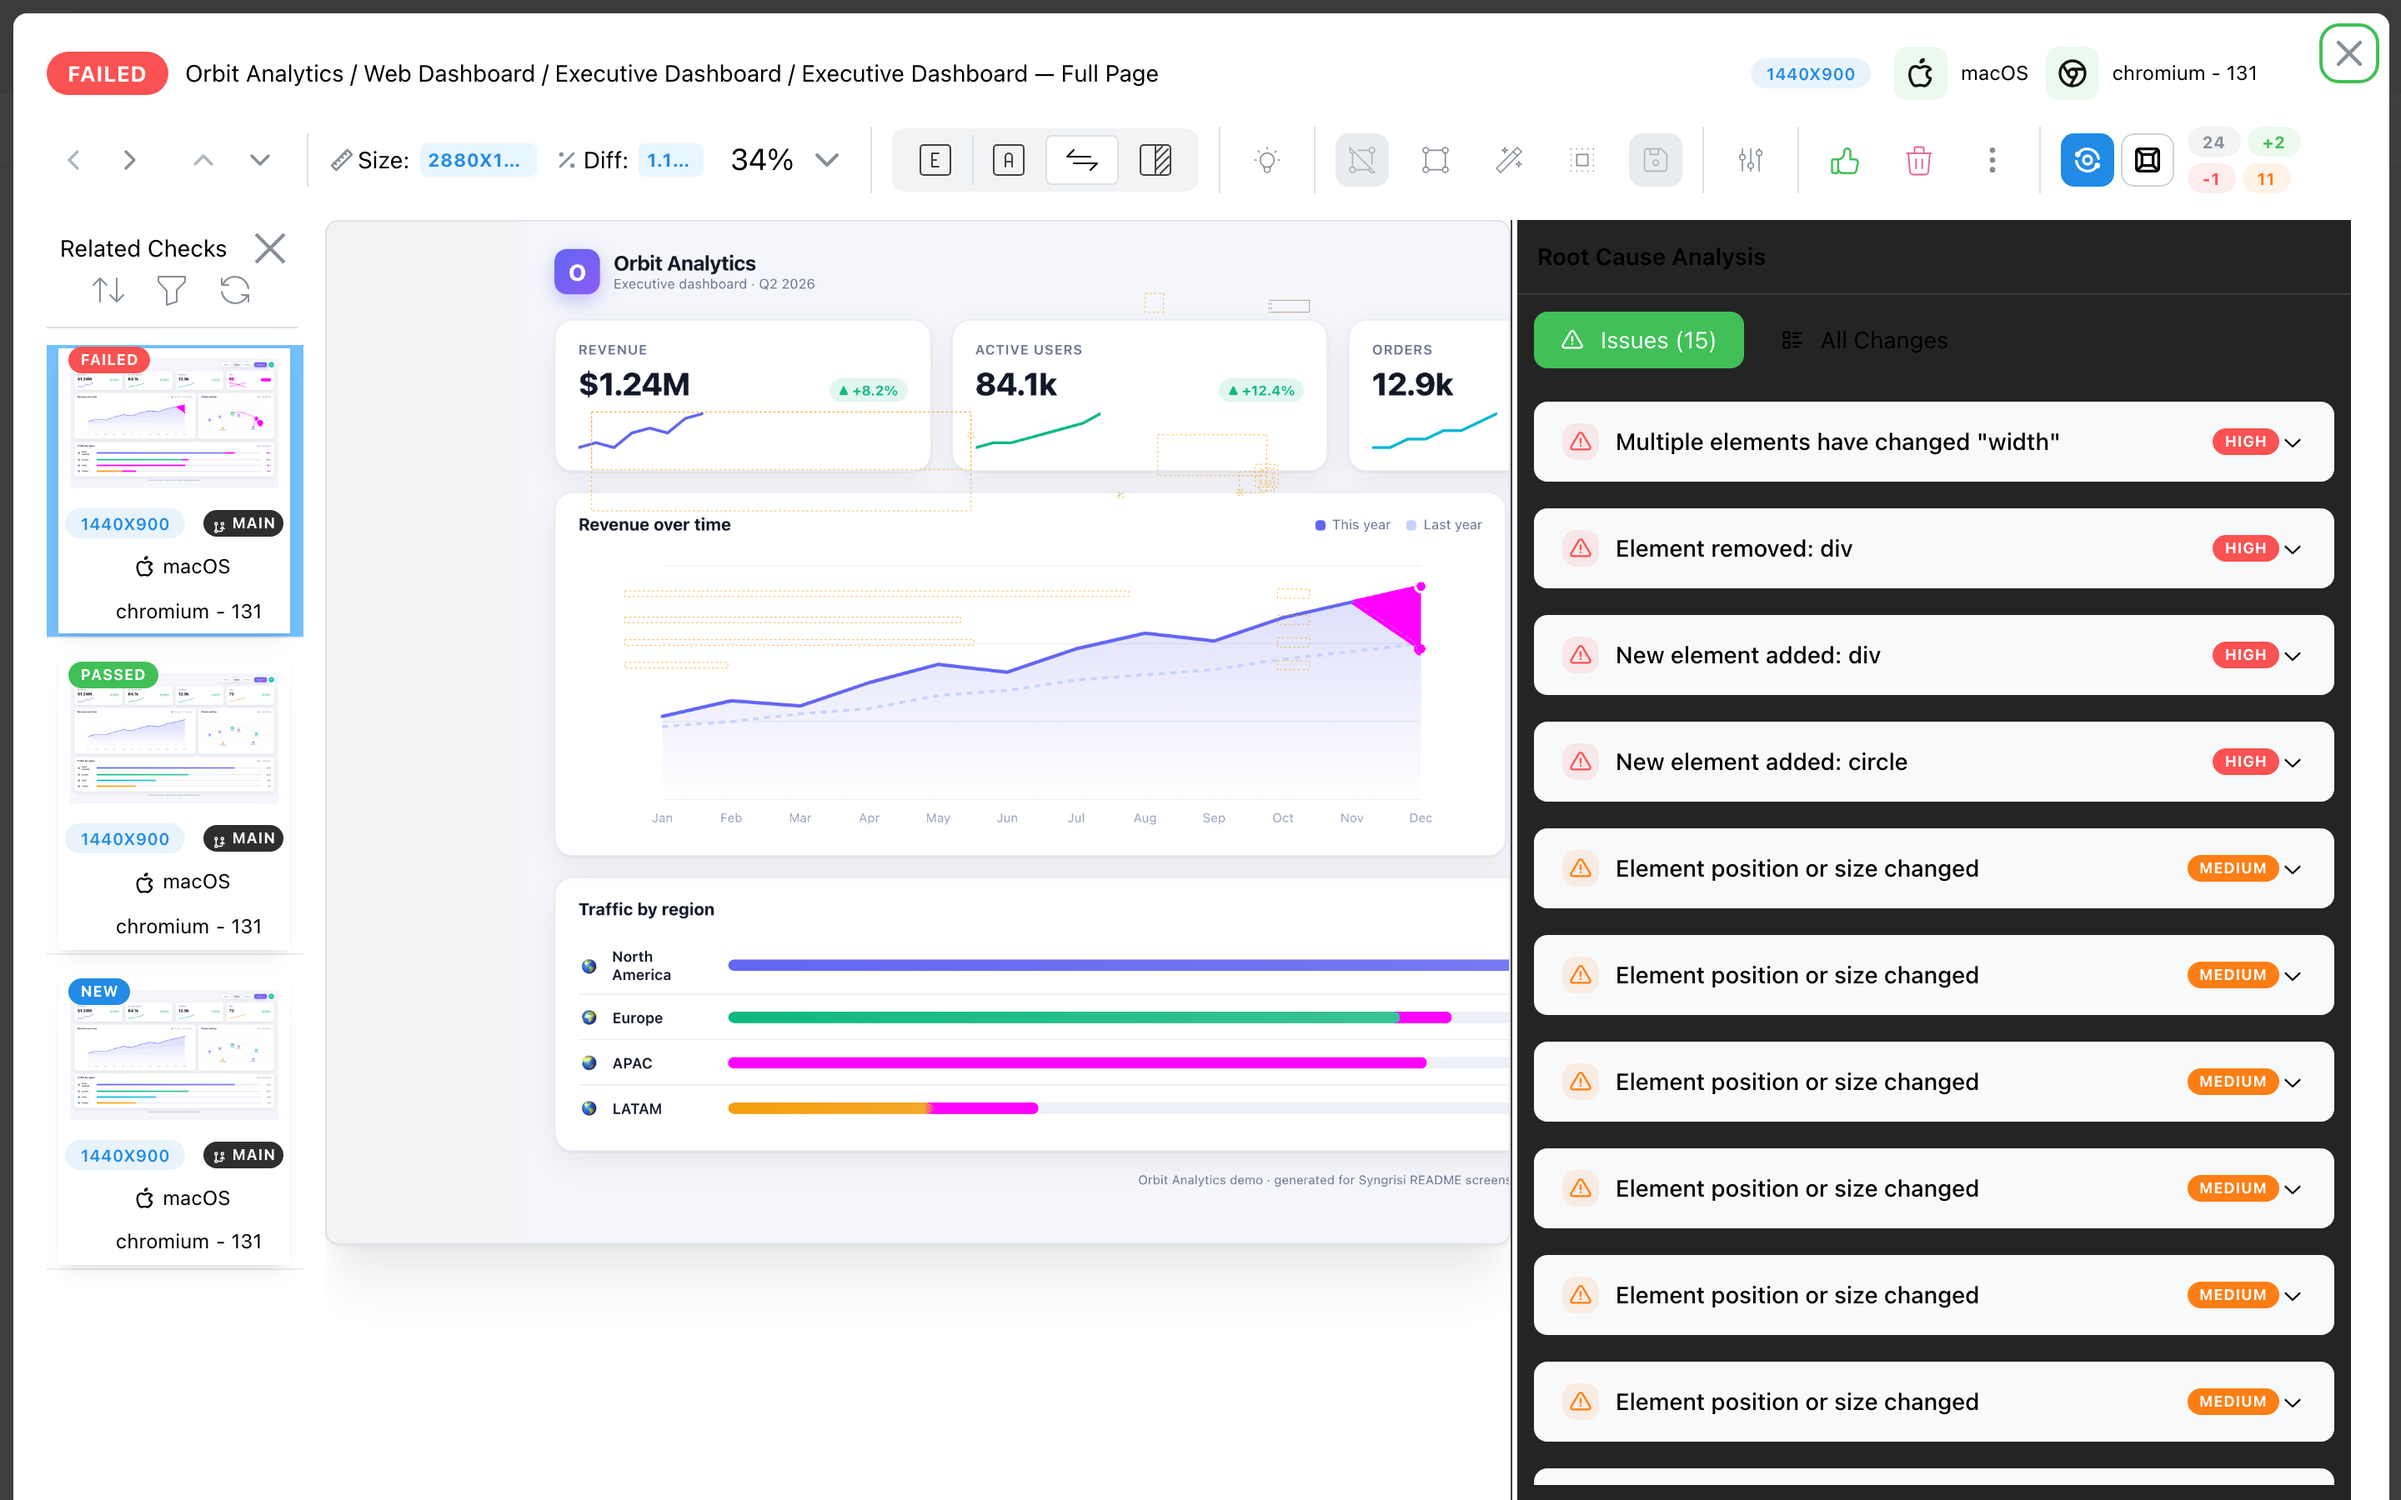
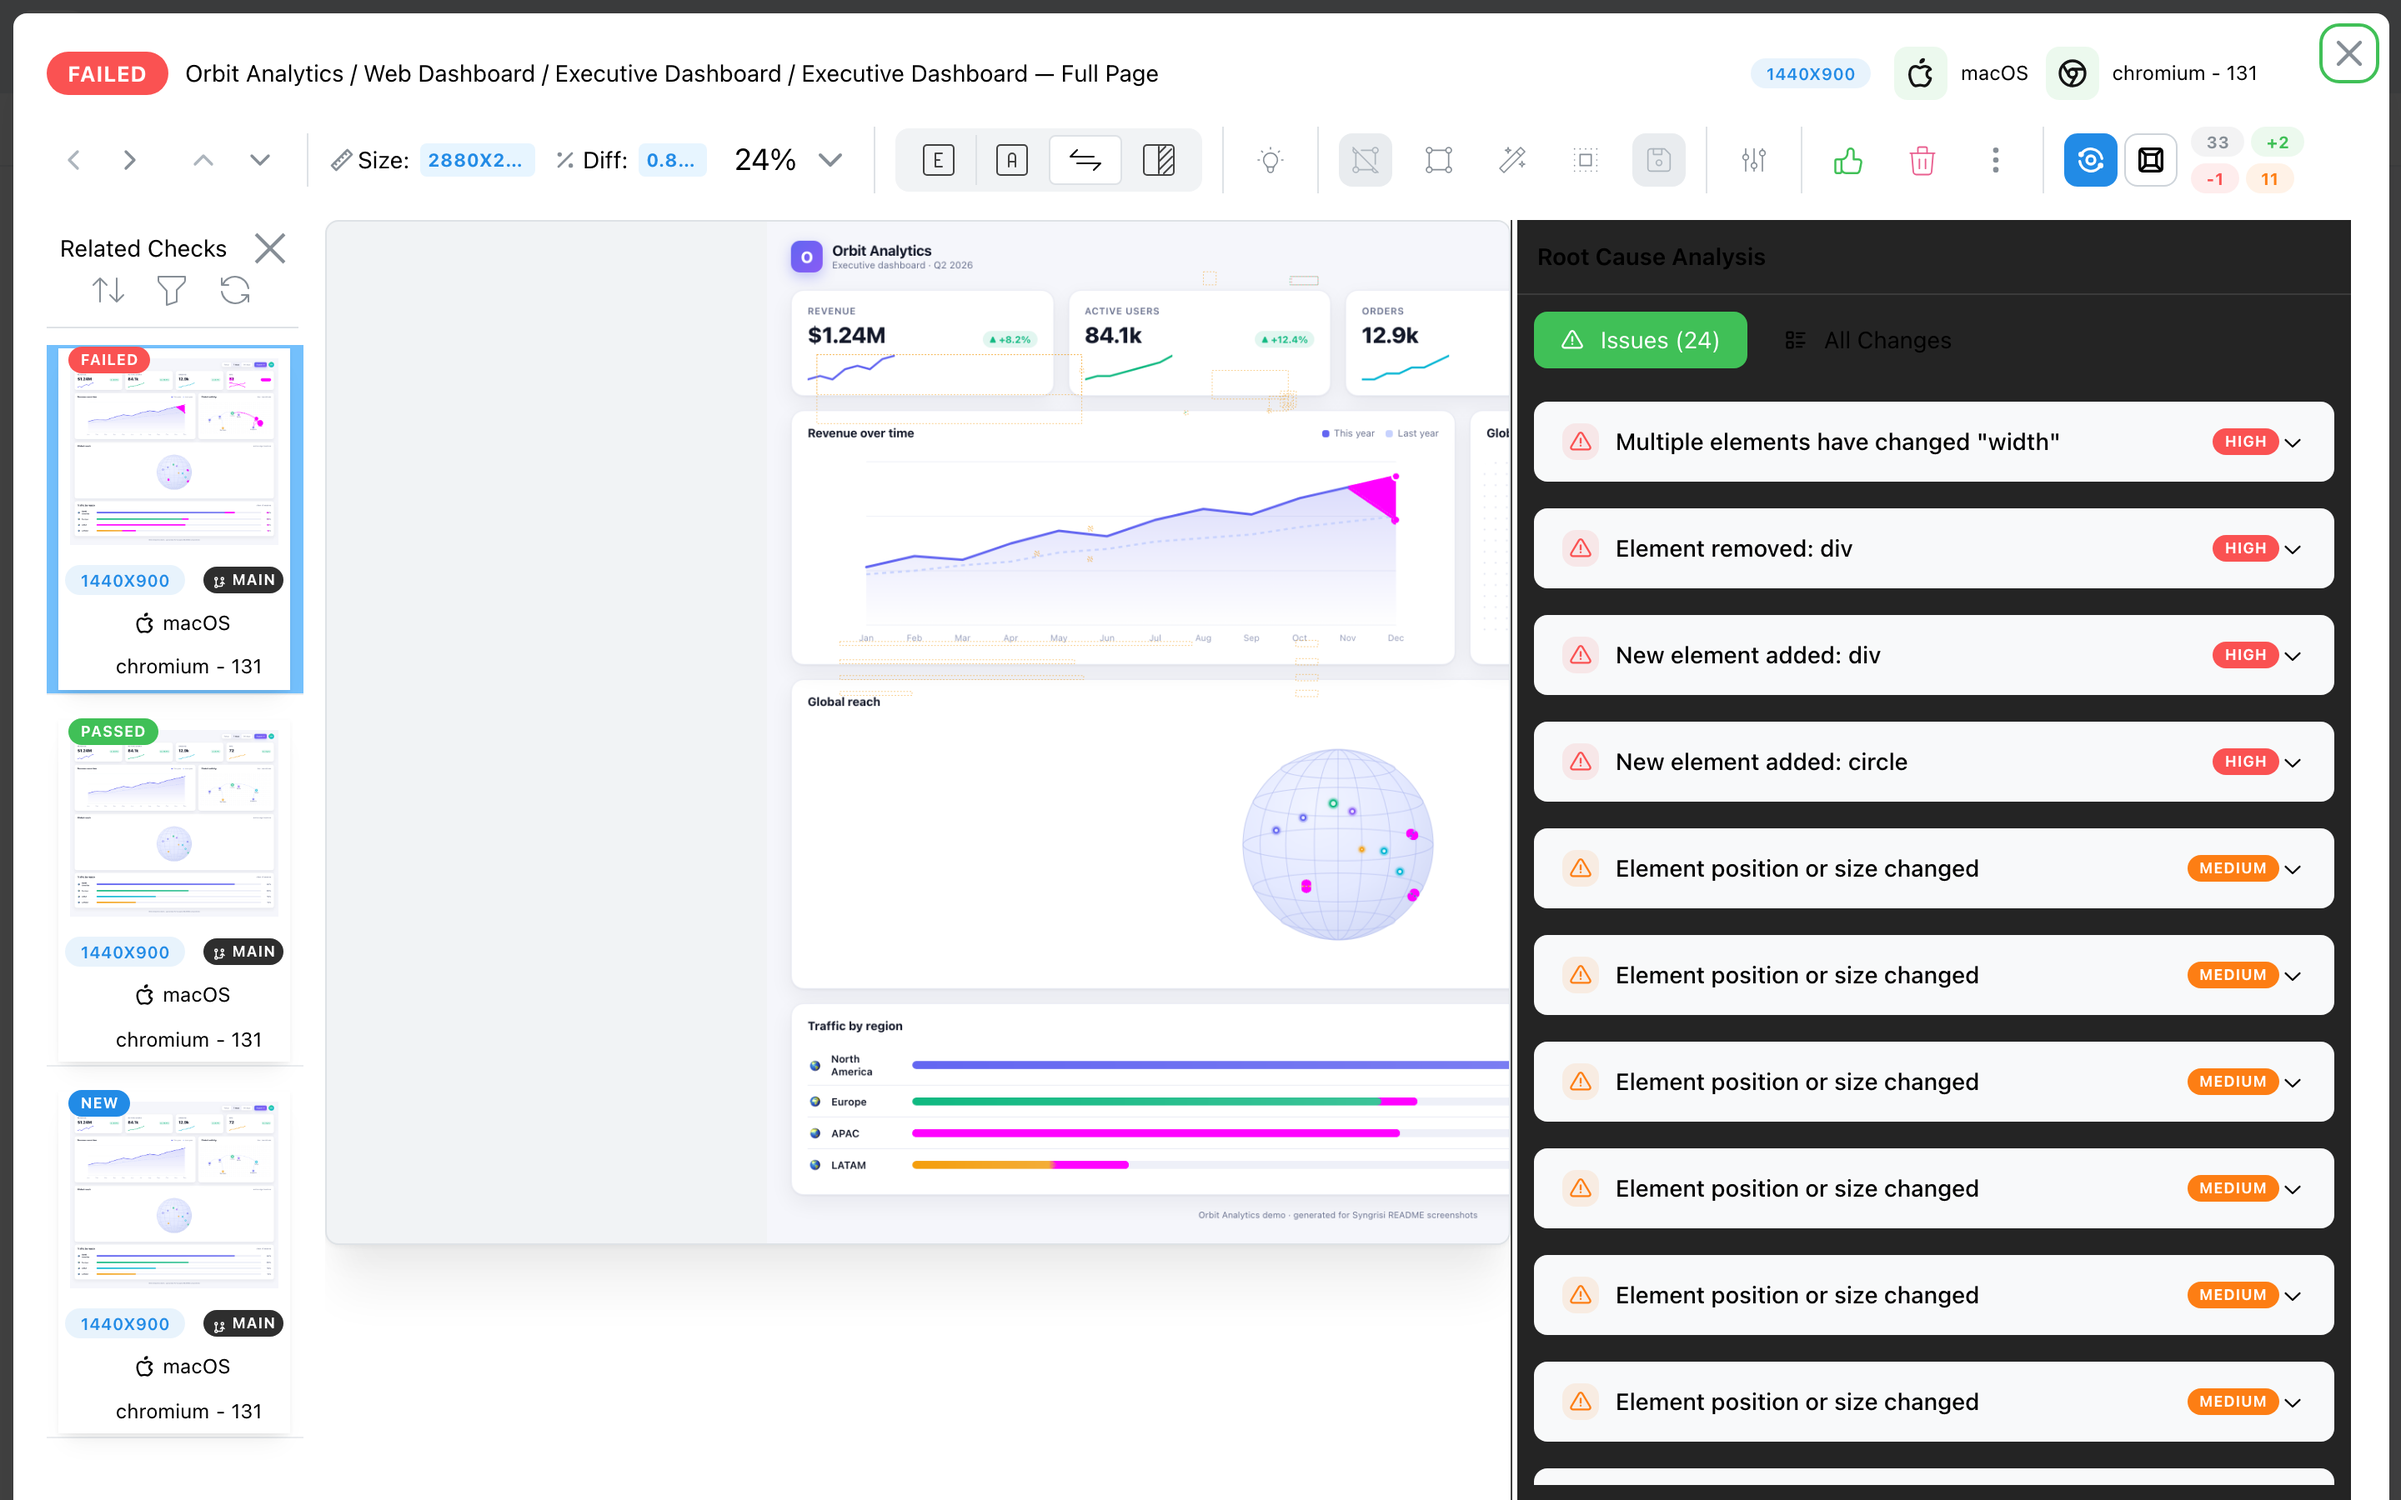
docs: add globe demo + curate README screenshots
- Add a wireframe-globe 'Global reach' panel to the demo app with a deliberately tiny
  (~0.09%) regression (3 points nudged a few px) to showcase difference highlighting.
- Curate the README gallery with higher-quality UI captures: side-by-side slider
  compare, difference highlighting (globe), and per-test checks with the dark,
  customizable UI. Drop superseded shots (full-page diff, light checks grid).
- Update the screenshot harness (seed/shoot) for the globe check.

diff --git a/scripts/readme-assets/demo-site/index.html b/scripts/readme-assets/demo-site/index.html
@@ -101,6 +101,11 @@
     </div>
   </section>
 
+  <section class="card" id="globe" style="margin-bottom:18px">
+    <div class="head"><h3>Global reach</h3><span class="sub">active edge locations</span></div>
+    <div class="body"><svg id="globe-svg" viewBox="0 0 760 320" width="100%" height="320" role="img" aria-label="wireframe globe with location points"></svg></div>
+  </section>
+
   <section class="card regions" id="regions">
     <div class="head"><h3>Traffic by region</h3><span class="sub">share of sessions</span></div>
     <div class="body" id="regbars"></div>
@@ -191,6 +196,42 @@
         <div class="track"><div style="width:${r.v * 2}%;background:linear-gradient(90deg,${r.c},${r.c}cc)"></div></div>
         <div class="pct">${r.v}%</div>
       </div>`).join('');
+
+    /* ---------- Wireframe globe with location points ----------
+       v2 nudges only 3 tiny points by ~2-3px — a near-invisible diff that
+       showcases Syngrisi's "difference highlighting" in the diff viewer. */
+    const gsvg = document.getElementById('globe-svg');
+    const gcx = 380, gcy = 160, R = 120;
+    const gdefs = el('defs', {});
+    gdefs.innerHTML = '<radialGradient id="sphere" cx="38%" cy="30%" r="78%">'
+      + '<stop offset="0" stop-color="#f1f4ff"/><stop offset="60%" stop-color="#e4e9ff"/><stop offset="100%" stop-color="#d2d9f6"/></radialGradient>'
+      + '<filter id="pglow" x="-80%" y="-80%" width="260%" height="260%"><feGaussianBlur stdDeviation="2.2" result="b"/>'
+      + '<feMerge><feMergeNode in="b"/><feMergeNode in="SourceGraphic"/></feMerge></filter>';
+    gsvg.appendChild(gdefs);
+    gsvg.appendChild(el('circle', { cx: gcx, cy: gcy, r: R, fill: 'url(#sphere)', stroke: '#c5cdf2', 'stroke-width': 1 }));
+    [-0.8, -0.45, 0, 0.45, 0.8].forEach((f) => { const dy = f * R, rx = Math.sqrt(R * R - dy * dy);
+      gsvg.appendChild(el('ellipse', { cx: gcx, cy: gcy + dy, rx, ry: rx * 0.17, fill: 'none', stroke: '#aab4ee', 'stroke-width': 1, opacity: .55 })); });
+    [0.25, 0.55, 0.82].forEach((f) => gsvg.appendChild(el('ellipse', { cx: gcx, cy: gcy, rx: R * f, ry: R, fill: 'none', stroke: '#aab4ee', 'stroke-width': 1, opacity: .55 })));
+    gsvg.appendChild(el('line', { x1: gcx, y1: gcy - R, x2: gcx, y2: gcy + R, stroke: '#aab4ee', 'stroke-width': 1, opacity: .55 }));
+    let dots = [
+      { k: 'sf', x: -78, y: -18, r: 4, c: '#6366f1' }, { k: 'ny', x: -44, y: -34, r: 4, c: '#6366f1' },
+      { k: 'lon', x: -6, y: -52, r: 5, c: '#10b981' }, { k: 'ber', x: 18, y: -42, r: 4, c: '#8b5cf6' },
+      { k: 'cai', x: 30, y: 6, r: 3, c: '#f59e0b' }, { k: 'mum', x: 58, y: 8, r: 4, c: '#06b6d4' },
+      { k: 'tok', x: 92, y: -14, r: 4, c: '#6366f1' }, { k: 'sin', x: 78, y: 34, r: 4, c: '#06b6d4' },
+      { k: 'syd', x: 96, y: 62, r: 4, c: '#10b981' }, { k: 'sao', x: -40, y: 54, r: 4, c: '#f59e0b' },
+    ];
+    if (v2) dots = dots.map((d) => {
+      if (d.k === 'tok') return { ...d, x: d.x + 3, y: d.y + 2 };
+      if (d.k === 'sao') return { ...d, y: d.y - 3 };
+      if (d.k === 'syd') return { ...d, x: d.x - 2, y: d.y + 3 };
+      return d;
+    });
+    dots.forEach((d) => {
+      const x = gcx + d.x, y = gcy + d.y;
+      gsvg.appendChild(el('circle', { cx: x, cy: y, r: d.r + 2, fill: d.c, opacity: .22 }));
+      gsvg.appendChild(el('circle', { cx: x, cy: y, r: d.r, fill: d.c, filter: 'url(#pglow)' }));
+      gsvg.appendChild(el('circle', { cx: x, cy: y, r: Math.max(1, d.r - 2), fill: '#fff', opacity: .85 }));
+    });
   </script>
 </body>
 </html>

diff --git a/README.md b/README.md
@@ -59,14 +59,19 @@ expensive, send your screenshots to someone else's servers, and lock you in.
 
 <table>
   <tr>
-    <td width="50%"><img src="assets/screenshots/diff-fullpage.png" alt="Diff viewer highlighting changes" /><br/><sub><b>Diff viewer</b> — baseline vs. actual with highlighted changes.</sub></td>
+    <td width="50%"><img src="assets/screenshots/side-by-side.png" alt="Side-by-side slider comparison of baseline and actual" /><br/><sub><b>Side-by-side compare</b> — drag the slider between baseline and actual.</sub></td>
     <td width="50%"><img src="assets/screenshots/rca.png" alt="Root Cause Analysis panel listing DOM changes" /><br/><sub><b>Root Cause Analysis</b> — the DOM-level changes behind a diff, ranked by severity.</sub></td>
   </tr>
   <tr>
-    <td width="50%"><img src="assets/screenshots/diff-chart.png" alt="Single-element diff" /><br/><sub><b>Clear diffs</b> — pinpoint exactly what changed, down to a single chart point.</sub></td>
-    <td width="50%"><img src="assets/screenshots/checks-grid.png" alt="Visual checks for a test" /><br/><sub><b>Per-test checks</b> — every visual check at a glance.</sub></td>
+    <td width="50%"><img src="assets/screenshots/diff-chart.png" alt="Single-element diff" /><br/><sub><b>Pinpoint diffs</b> — exactly what changed, down to a single chart point.</sub></td>
+    <td width="50%"><img src="assets/screenshots/checks-and-settings.png" alt="Per-test checks with a customizable dark UI" /><br/><sub><b>Per-test checks</b> — every check at a glance, with a customizable UI (dark theme, layouts, fields).</sub></td>
   </tr>
 </table>
+
+<div align="center">
+  <img src="assets/screenshots/highlight.png" width="100%" alt="Difference highlighting reveals a tiny sub-pixel change on a globe" /><br/>
+  <sub><b>Difference highlighting</b> — a 0.09% change across a handful of points becomes impossible to miss.</sub>
+</div>
 
 ## 🚀 Quick Start
 
